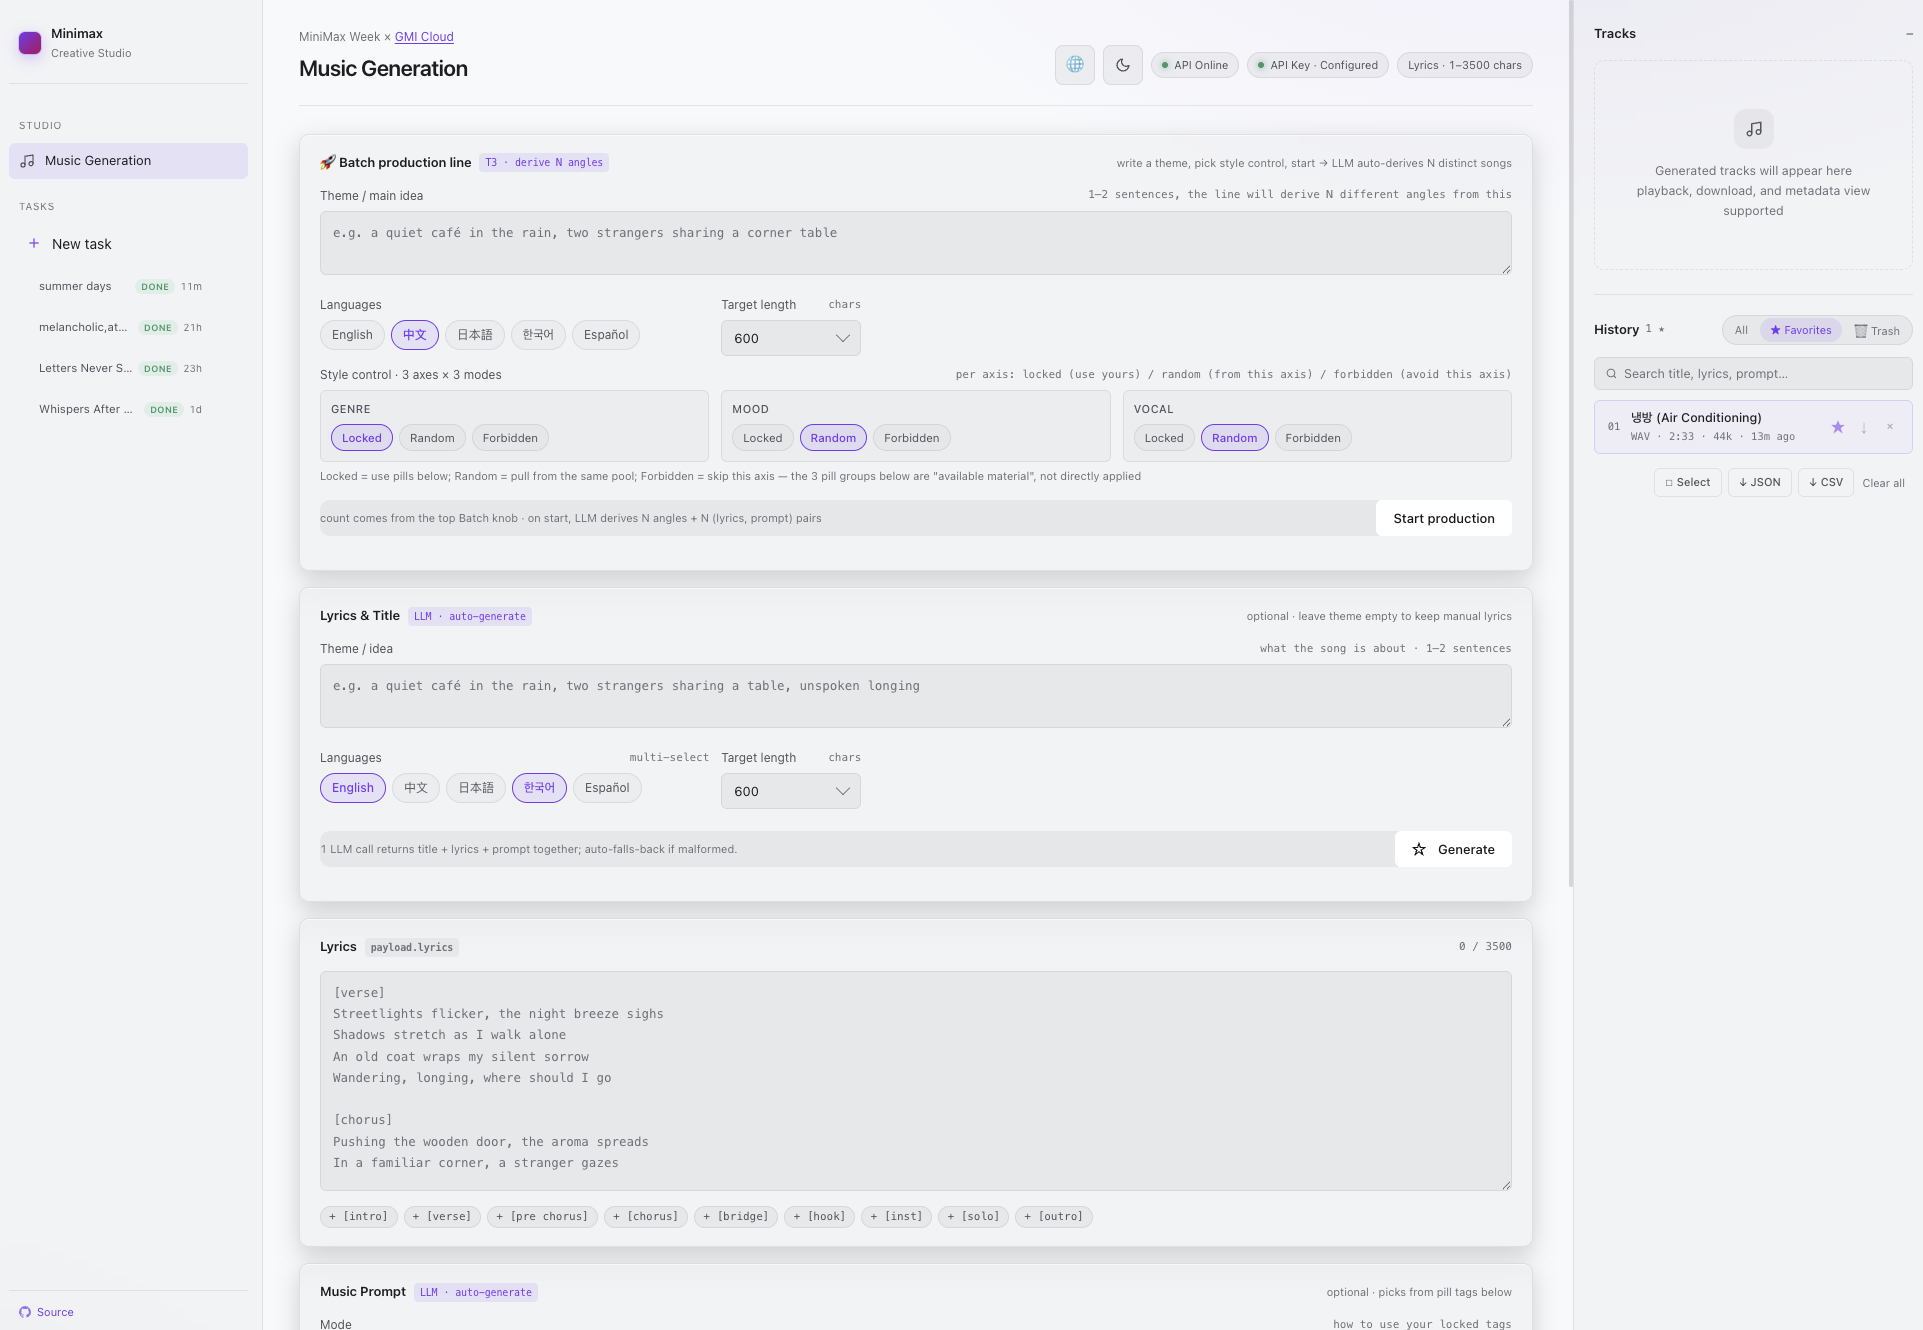
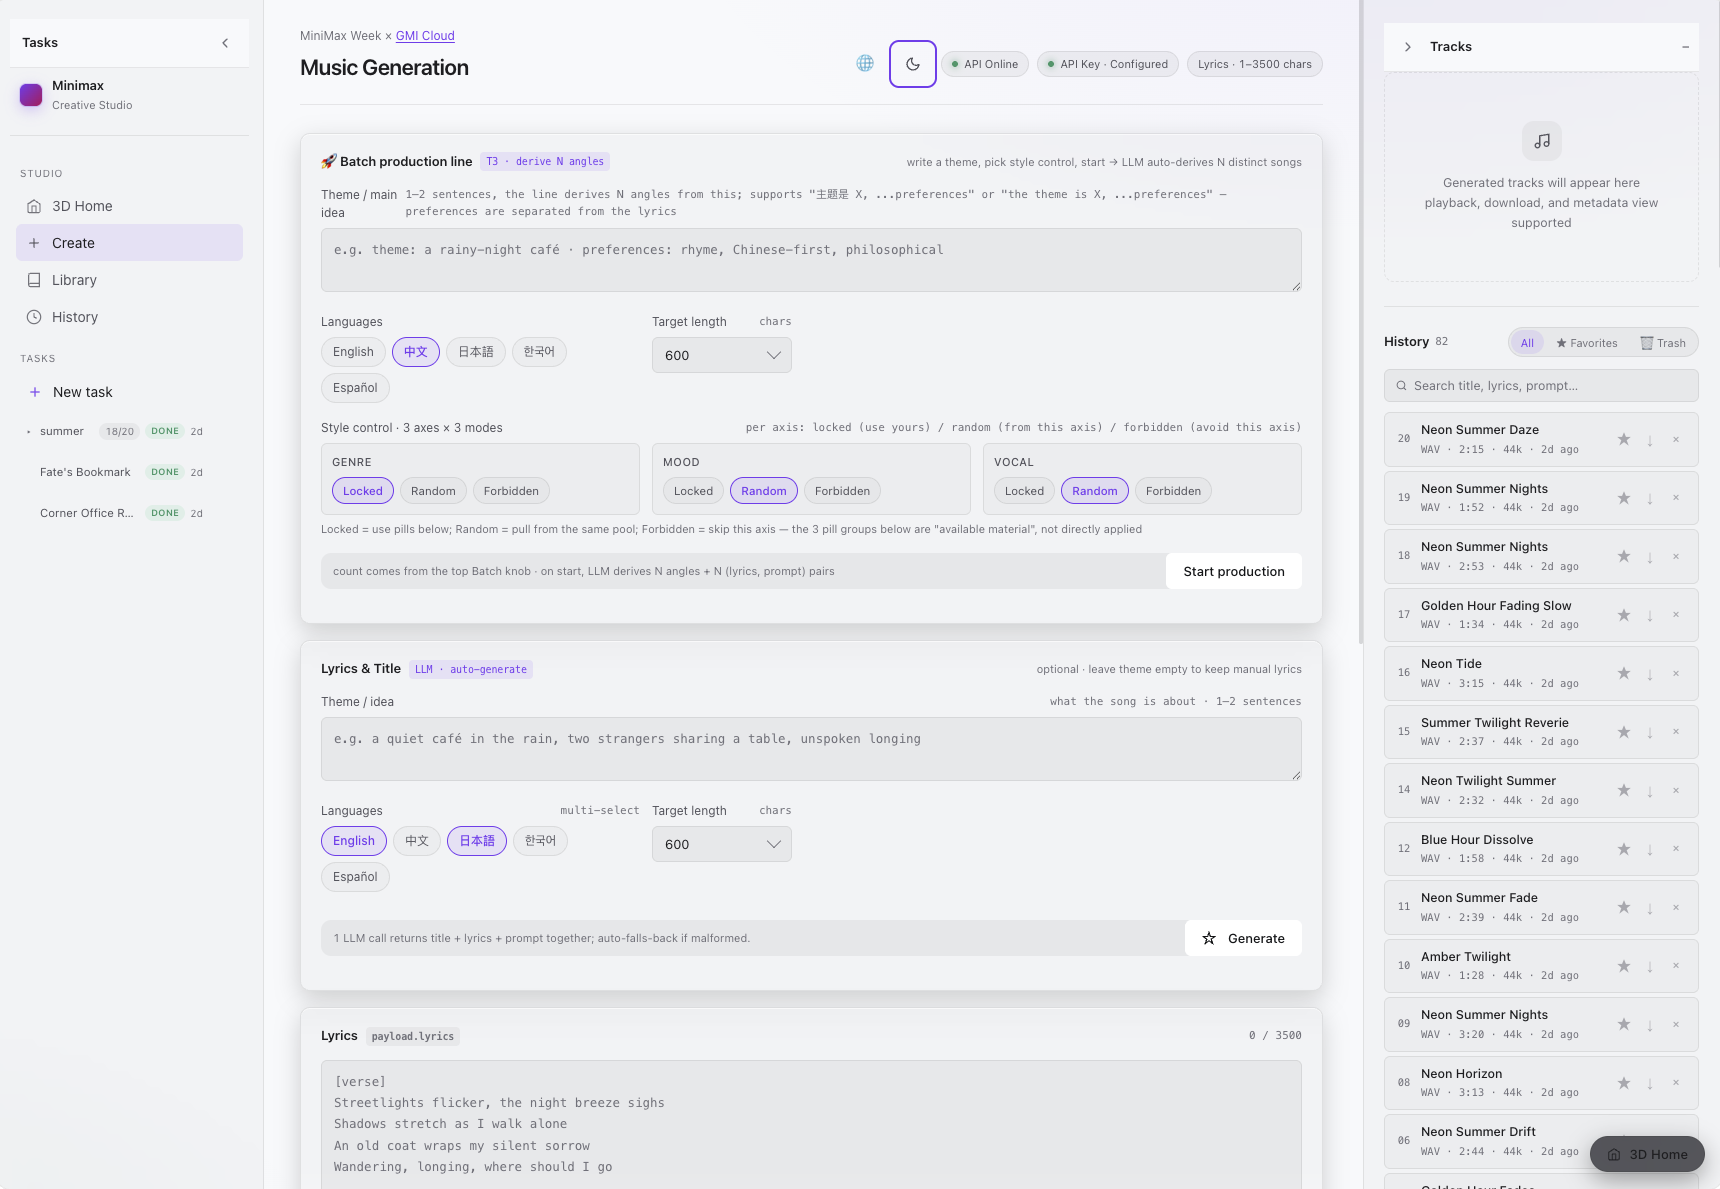
feat: add new preview

diff --git a/README.md b/README.md
@@ -6,7 +6,9 @@ Built by **Everclaw Agent** on top of the **MiniMax M3** model.
 
 > Chinese version: see [README.zh-CN.md](./README.zh-CN.md).
 
-![Screenshot](./screenshot.png)
+| Studio | Room |
+| -------- | -------- |
+| ![Screenshot](./screenshot.png#width=100px) | ![Screenshot2](./screenshot2.png#width=100px) |
 
 ## What you can do
 
